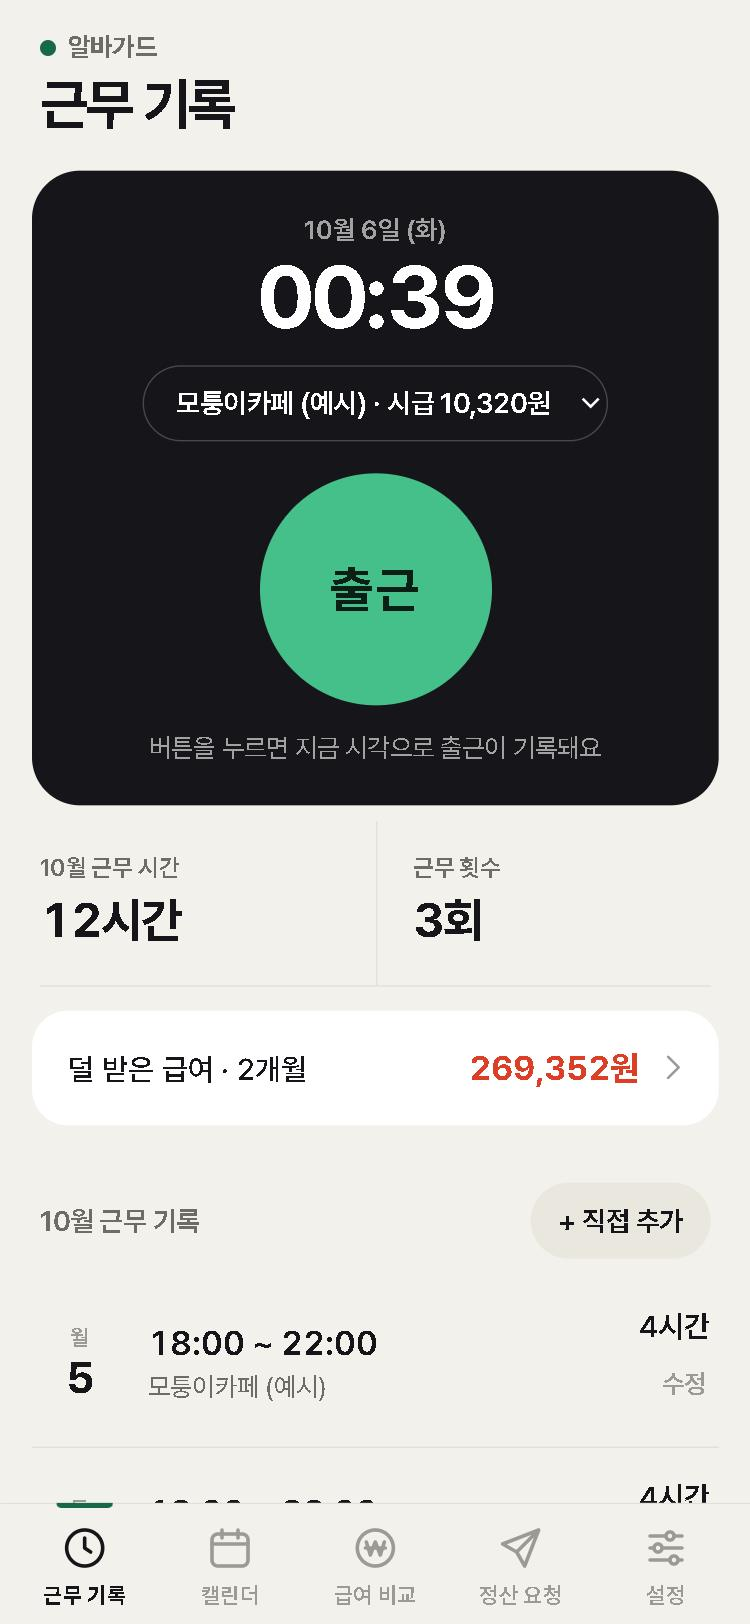
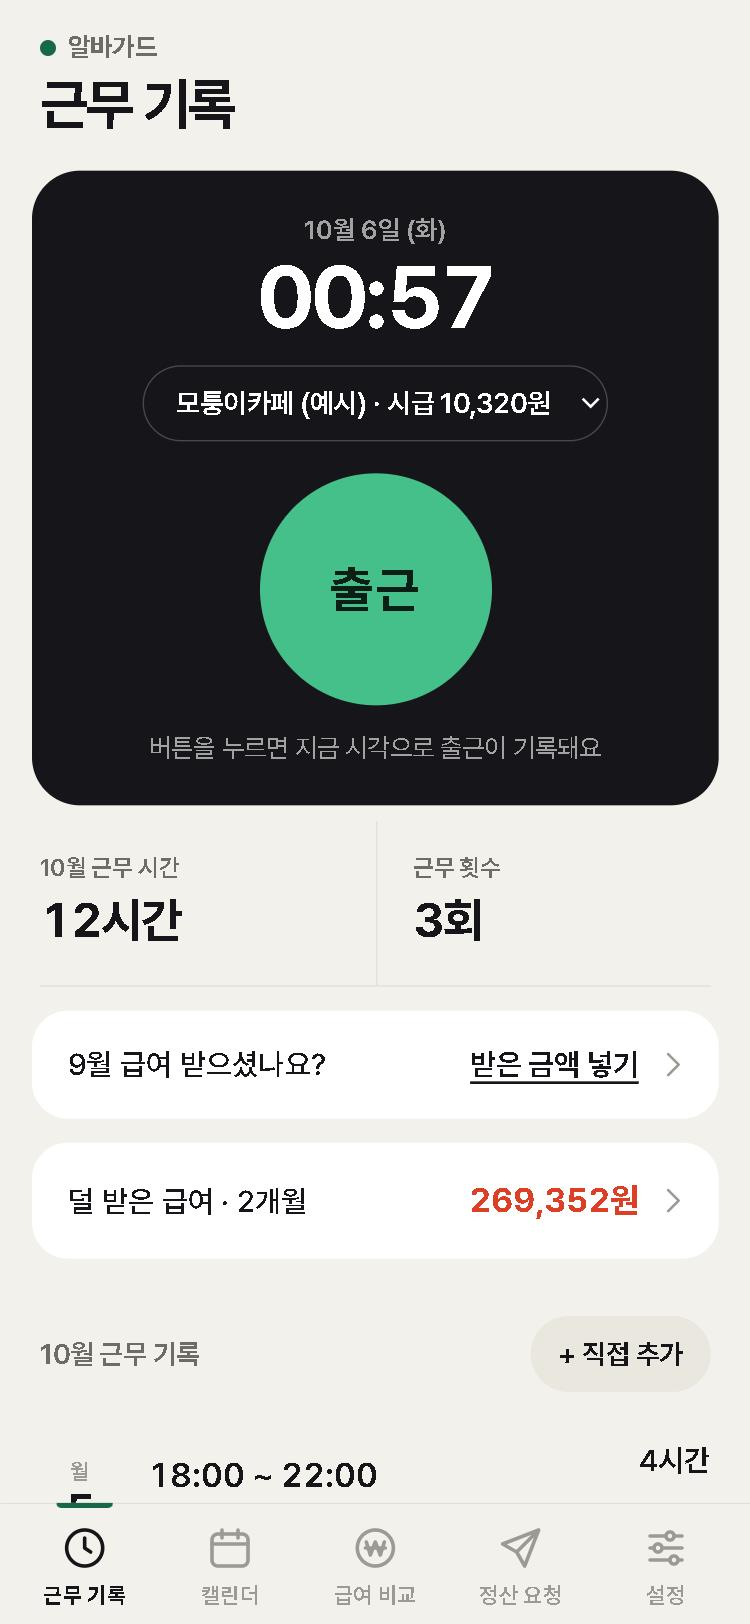
받은 금액 확인 알림: 지난 달 급여를 아직 안 넣었으면 첫 화면에서 물어봄
- 누르면 그 근무지·그 달의 급여 비교로 이동
- 예시 데이터를 석 달치로 늘리고 지난달 받은 금액은 비워 둠
- README 첫 화면 캡처와 문서 갱신

diff --git a/src/lib/demo.js b/src/lib/demo.js
@@ -1,4 +1,4 @@
-// 시연용 예시 데이터. 오늘 날짜를 기준으로 두 달 전~이번 달 기록을 만든다
+// 시연용 예시 데이터. 오늘 날짜를 기준으로 석 달 전~이번 달 기록을 만든다
 import { newId } from './id'
 import { calcMonth, paymentKey } from './pay'
 import { dateKey, monthKey } from './time'
@@ -31,15 +31,15 @@ export function buildDemoData() {
     ...extra,
   })
 
-  const firstMonthStart = new Date(today.getFullYear(), today.getMonth() - 2, 1)
-  const lastMonthStart = new Date(today.getFullYear(), today.getMonth() - 1, 1)
+  const firstMonthStart = new Date(today.getFullYear(), today.getMonth() - 3, 1)
+  const secondMonthStart = new Date(today.getFullYear(), today.getMonth() - 2, 1)
   const thisMonthEnd = new Date(today.getFullYear(), today.getMonth() + 1, 0)
   const schedules = []
   const records = []
   let count = 0
 
   for (let day = new Date(firstMonthStart); day <= thisMonthEnd; day.setDate(day.getDate() + 1)) {
-    // 대타: 지난 두 달의 둘째 일요일, 예정에 없던 근무
+    // 대타: 지난 석 달의 둘째 일요일, 예정에 없던 근무
     if (day.getDay() === 0 && day.getDate() >= 8 && day.getDate() <= 14 && day < today && day.getMonth() !== today.getMonth()) {
       records.push(record(day, 12, 16))
     }
@@ -84,9 +84,10 @@ export function buildDemoData() {
     }
   }
 
-  // 지난 두 달 급여는 기본급만 들어온 상황 (주휴수당·야간수당이 빠짐)
+  // 석 달 전·두 달 전 급여는 기본급만 들어온 상황 (주휴수당·야간수당이 빠짐).
+  // 지난달은 받은 금액을 비워 둬서 첫 화면에 "급여 받으셨나요?" 알림이 뜬다
   const payments = {}
-  for (const start of [firstMonthStart, lastMonthStart]) {
+  for (const start of [firstMonthStart, secondMonthStart]) {
     const ym = monthKey(start)
     const month = calcMonth(workplace, records, schedules, ym, dateKey(today))
     payments[paymentKey(workplace.id, ym)] = { amount: month.basePay, taxed: false }

diff --git a/src/components/Home.jsx b/src/components/Home.jsx
@@ -1,6 +1,6 @@
 import { useEffect, useState } from 'react'
 import { mondayOf, weekSummary } from '../lib/pay'
-import { shortfallTotal } from '../lib/request'
+import { shortfallTotal, unpaidMonths } from '../lib/request'
 import { dateKey, fmtDate, fmtDuration, fmtTime, minutesBetween, monthKey } from '../lib/time'
 import Icon from './Icon.jsx'
 import RecordItem from './RecordItem.jsx'
@@ -21,7 +21,7 @@ function LiveClock() {
   )
 }
 
-export default function Home({ data, actions, goTo }) {
+export default function Home({ data, actions, goTo, openPay }) {
   const { workplaces, selectedWorkplaceId, active, records } = data
   const [, setTick] = useState(0)
   const [form, setForm] = useState(null) // null | { record } | { add: true }
@@ -61,6 +61,7 @@ export default function Home({ data, actions, goTo }) {
   const thisWeek =
     selectedWorkplace && weekSummary(selectedWorkplace, records, data.schedules, mondayOf(now), dateKey(now))
   const owed = shortfallTotal(data, dateKey(now))
+  const pending = unpaidMonths(data, dateKey(now))
   const activeWorkplace = active && workplaces.find((w) => w.id === active.workplaceId)
 
   return (
@@ -116,6 +117,16 @@ export default function Home({ data, actions, goTo }) {
           <span>
             이번 주 주휴수당 대상
             <b>+{thisWeek.pay.toLocaleString()}원</b>
+          </span>
+          <Icon name="chevronRight" size={18} />
+        </button>
+      )}
+
+      {pending.length > 0 && (
+        <button className="card holiday-banner ask" onClick={() => openPay(pending[0])}>
+          <span>
+            {pending[0].month}월 급여 받으셨나요?
+            <b>받은 금액 넣기</b>
           </span>
           <Icon name="chevronRight" size={18} />
         </button>

diff --git a/src/App.jsx b/src/App.jsx
@@ -24,7 +24,9 @@ export default function App() {
     const fromHash = location.hash.slice(1)
     return TABS.some((t) => t.id === fromHash) ? fromHash : 'home'
   })
+  const [payTarget, setPayTarget] = useState(null) // 첫 화면 알림에서 급여 비교로 넘어올 때 고른 달
   function setTab(id) {
+    setPayTarget(null)
     setTabState(id)
     history.replaceState(null, '', `#${id}`)
     window.scrollTo(0, 0)
@@ -36,6 +38,11 @@ export default function App() {
   useEffect(() => {
     saveData(data)
   }, [data])
+
+  function openPay(target) {
+    setTab('pay')
+    setPayTarget({ workplaceId: target.workplaceId, ym: target.ym })
+  }
 
   function openRequest(target) {
     setRequestTarget(target)
@@ -54,9 +61,9 @@ export default function App() {
       </header>
 
       <main className="app-main" key={tab}>
-        {tab === 'home' && <Home data={data} actions={actions} goTo={setTab} />}
+        {tab === 'home' && <Home data={data} actions={actions} goTo={setTab} openPay={openPay} />}
         {tab === 'calendar' && <CalendarView data={data} actions={actions} goTo={setTab} />}
-        {tab === 'pay' && <Pay data={data} actions={actions} goTo={setTab} openRequest={openRequest} openEvidence={setEvidenceTarget} />}
+        {tab === 'pay' && <Pay data={data} actions={actions} goTo={setTab} openRequest={openRequest} openEvidence={setEvidenceTarget} target={payTarget} />}
         {tab === 'request' && (
           <Request
             data={data}

diff --git a/src/lib/request.js b/src/lib/request.js
@@ -55,6 +55,22 @@ export function shortfallTotal(data, todayKey) {
   return { count: months.length, amount: months.reduce((total, c) => total + c.diff, 0) }
 }
 
+// 근무 기록은 있는데 받은 금액을 아직 안 넣은 지난 달 (최근 달 먼저). 첫 화면에서 확인을 권한다
+export function unpaidMonths(data, todayKey) {
+  const thisYm = todayKey.slice(0, 7)
+  const list = []
+  for (const workplace of data.workplaces) {
+    const yms = new Set(
+      data.records.filter((r) => !r.deleted && r.workplaceId === workplace.id).map((r) => monthKey(r.start)),
+    )
+    for (const ym of yms) {
+      if (ym >= thisYm || data.payments[paymentKey(workplace.id, ym)]) continue
+      list.push({ workplaceId: workplace.id, workplace, ym, month: Number(ym.slice(5, 7)) })
+    }
+  }
+  return list.sort((a, b) => b.ym.localeCompare(a.ym))
+}
+
 // 여러 달 합계일 때 쓰는 달별 한 줄
 const monthLine = (c) =>
   `${c.label}: 근무 ${fmtDuration(c.result.baseMin)} / 계산한 금액 ${won(c.target)} / 받은 금액 ${won(c.payment.amount)} / 차이 ${won(c.diff)}`

diff --git a/src/components/Pay.jsx b/src/components/Pay.jsx
@@ -7,11 +7,13 @@ import Icon from './Icon.jsx'
 const won = (n) => `${Math.round(n).toLocaleString()}원`
 const shortDate = (key) => `${Number(key.slice(5, 7))}/${Number(key.slice(8, 10))}`
 
-export default function Pay({ data, actions, goTo, openRequest, openEvidence }) {
+export default function Pay({ data, actions, goTo, openRequest, openEvidence, target }) {
   const { workplaces, selectedWorkplaceId, records, schedules, payments } = data
   const todayKey = dateKey(new Date())
-  const [workplaceId, setWorkplaceId] = useState(selectedWorkplaceId ?? workplaces[0]?.id)
+  // target이 있으면(첫 화면 알림에서 넘어옴) 그 근무지·달을 먼저 보여준다
+  const [workplaceId, setWorkplaceId] = useState(target?.workplaceId ?? selectedWorkplaceId ?? workplaces[0]?.id)
   const [month, setMonth] = useState(() => {
+    if (target) return { y: Number(target.ym.slice(0, 4)), m: Number(target.ym.slice(5, 7)) - 1 }
     const d = new Date()
     return { y: d.getFullYear(), m: d.getMonth() }
   })

diff --git a/src/components/Workplaces.jsx b/src/components/Workplaces.jsx
@@ -82,7 +82,7 @@ export default function Workplaces({ data, actions }) {
         <h2>시연 도구</h2>
       </div>
       <div className="card">
-        <p className="muted">두 달 전부터 어제까지의 근무 기록, 예정 스케줄, 두 달치 덜 받은 급여가 들어 있는 예시를 넣어요.</p>
+        <p className="muted">석 달 전부터 어제까지의 근무 기록, 예정 스케줄, 두 달치 덜 받은 급여가 들어 있는 예시를 넣어요.</p>
         <button
           className="btn block"
           onClick={() => {

diff --git a/src/styles.css b/src/styles.css
@@ -499,6 +499,14 @@ a.btn {
   color: var(--red);
 }
 
+.holiday-banner.ask b {
+  color: var(--text);
+  font-size: 15px;
+  font-weight: 600;
+  text-decoration: underline;
+  text-underline-offset: 3px;
+}
+
 .holiday-banner .icon {
   color: var(--faint);
 }

diff --git a/CLAUDE.md b/CLAUDE.md
@@ -98,7 +98,9 @@
 
 ### 여러 달 누적 요청
 - 한 근무지에서 덜 받은 달이 둘 이상이면 정산 요청 탭에 "N개월 합계" 항목이 맨 위에 생긴다. 합계용 메시지·내용증명·증빙 묶음을 만든다
-- 덜 받은 급여가 있으면 근무 기록 탭에 빨간 알림 배너(개월 수·합계)가 뜬다
+- 덜 받은 급여가 있으면 근무 기록 탭에 알림 줄(개월 수·합계, 금액만 빨강)이 뜬다. 누르면 정산 요청으로
+- **받은 금액 확인 알림**: 근무 기록은 있는데 받은 금액을 아직 안 넣은 지난 달이 있으면 근무 기록 탭에 "9월 급여 받으셨나요? 받은 금액 넣기"가 뜬다. 누르면 그 근무지·그 달의 급여 비교로 넘어간다. 이번 달은 대상이 아니다
+- 문서의 "차액 알림"은 이 두 알림 줄 + 급여 비교의 차액 표시로 구현한 것이다. 폰 푸시 알림은 없다(입금을 앱이 스스로 알 수 없고, 서버가 없어서). 발표에서는 "앱을 열면 알려준다"로 설명한다
 
 ### 기록 백업 (설정 탭)
 - "백업 파일 만들기": 모든 기록과 사진을 json 파일 하나로 저장. "백업 파일에서 불러오기": 그 파일로 전부 되돌림
@@ -106,12 +108,12 @@
 - 데이터에 새 항목을 추가하면 백업·불러오기·예시 데이터·모든 데이터 지우기에도 반영할 것
 
 ### 시연 도구 (설정 탭 맨 아래)
-- "시연용 예시 데이터 넣기": 오늘 기준 두 달 전~어제 기록, 예정 스케줄, 두 달치 덜 받은 급여를 넣음 (연장·대타·수정·직접 입력 사례 포함, 오늘은 비워 둠)
+- "시연용 예시 데이터 넣기": 오늘 기준 석 달 전~어제 기록, 예정 스케줄, 석 달 전·두 달 전의 덜 받은 급여를 넣음. 지난달은 받은 금액을 비워 둬서 "급여 받으셨나요?" 알림이 뜬다 (연장·대타·수정·직접 입력 사례 포함, 오늘은 비워 둠)
 - "모든 데이터 지우기"
 
 ## 시연 흐름 (이것만 끝까지 돌아가면 성공)
 
-설정에서 예시 데이터 넣기 → 출근·퇴근 기록 → 캘린더에서 연장·대타 확인 → 급여 비교(지난달) → 차액 표시 → 증빙 사진 첨부 → 요청 메시지 생성(2개월 합계) → 증빙 묶음 PDF → 3단계 진정 안내
+설정에서 예시 데이터 넣기 → 출근·퇴근 기록 → 캘린더에서 연장·대타 확인 → 첫 화면의 "9월 급여 받으셨나요?" 누르기 → 받은 금액 입력 → 차액 표시 → 증빙 사진 첨부 → 요청 메시지 생성(3개월 합계) → 증빙 묶음 PDF → 3단계 진정 안내
 
 ## 기술 방향
 

diff --git a/README.md b/README.md
@@ -10,7 +10,7 @@
 **바로 써 보기: https://jihooni217.github.io/albaguard/**
 
 폰 브라우저에서 열고 "홈 화면에 추가"를 누르면 앱처럼 쓸 수 있다.
-처음이라면 "예시 데이터로 둘러보기"를 누르면 두 달치 기록이 들어간 상태로 살펴볼 수 있다.
+처음이라면 "예시 데이터로 둘러보기"를 누르면 석 달치 기록이 들어간 상태로 살펴볼 수 있다.
 
 ## 화면 구성
 
@@ -31,7 +31,7 @@
 
 | 탭 | 화면 |
 |---|---|
-| 근무 기록 | 먹색 판 위에 현재 시각과 초록색 원형 출근 버튼, 이번 달 근무 시간, 덜 받은 급여 알림, 날짜별 기록 목록 |
+| 근무 기록 | 먹색 판 위에 현재 시각과 초록색 원형 출근 버튼, 이번 달 근무 시간, 받은 금액 확인·덜 받은 급여 알림, 날짜별 기록 목록 |
 | 캘린더 | 월 달력에 날짜마다 완료·연장·대타·휴무 표시, 날짜를 누르면 예정 스케줄과 실제 근무 비교 |
 | 급여 비교 | 달별 예상 급여와 항목, 받은 금액 입력과 차액, 주별 주휴수당(접어 둠), 증빙 사진 |
 | 정산 요청 | 덜 받은 금액과 근거, 1~3단계 요청 문구와 진정 안내 (1단계만 펼쳐 두고 나머지는 눌러서 펼침) |
@@ -53,6 +53,7 @@
 - 실제 받은 금액을 넣으면 차액을 알려준다. 3.3% 공제 여부를 고를 수 있다
 - 무급 휴게시간, 중간에 바뀐 시급을 반영한다
 - 덜 받은 급여가 있으면 첫 화면에 알림이 뜬다
+- 지난 달 급여의 받은 금액을 아직 안 넣었으면 첫 화면에서 "급여 받으셨나요?"라고 물어본다
 
 ### 3. 단계별 정산 요청
 - 1단계 사장님께 보낼 메시지 → 2단계 내용증명 초안 → 3단계 진정 절차 안내(1350 전화, 노동포털 연결)
